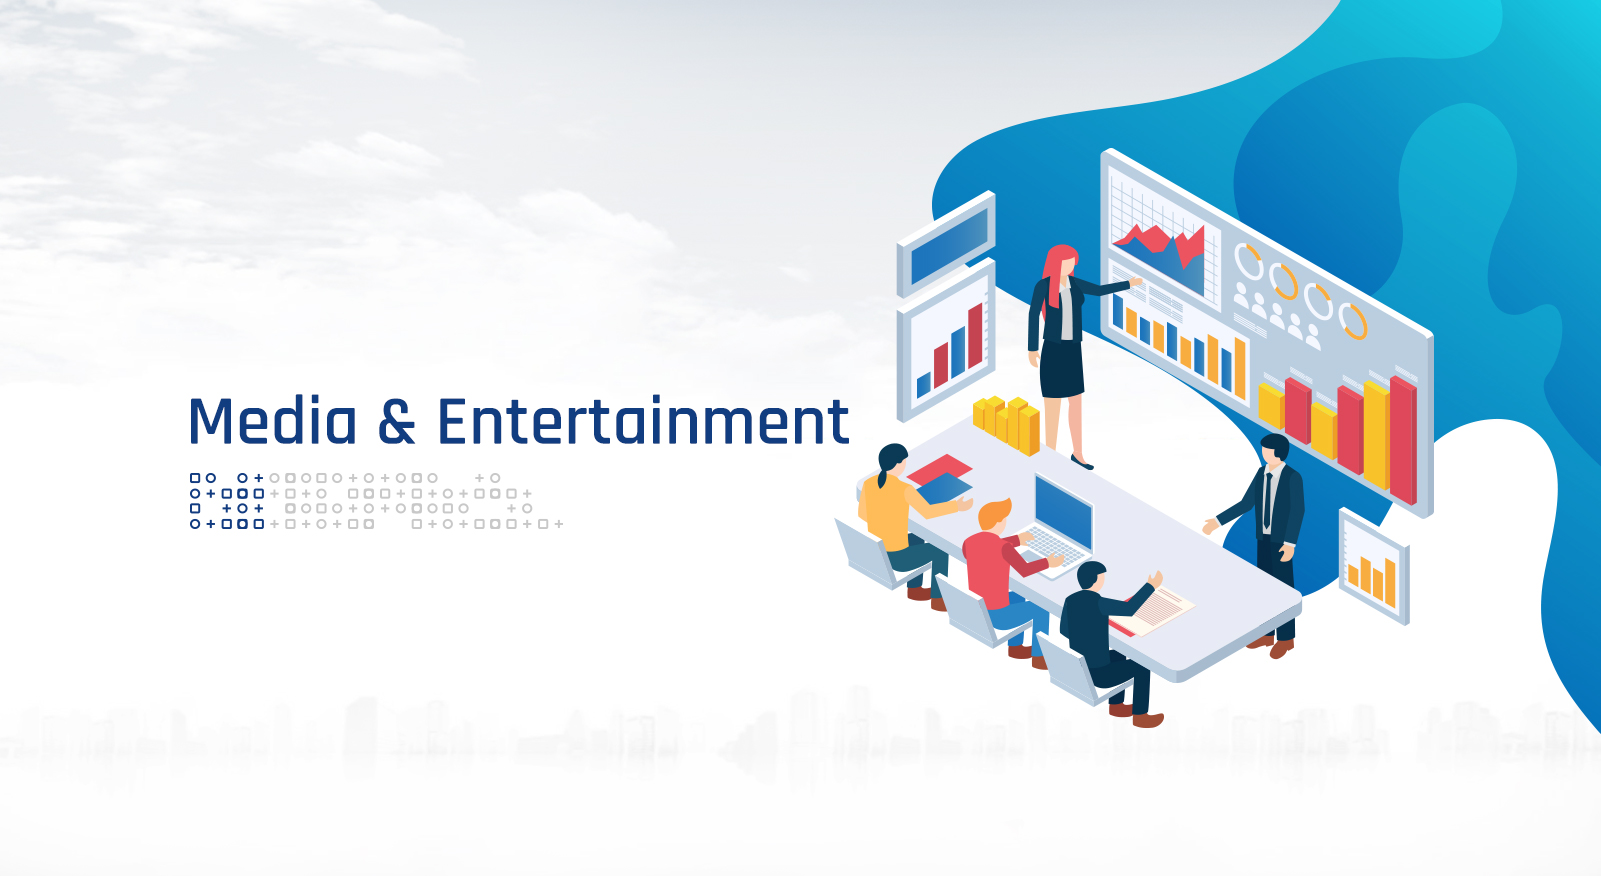
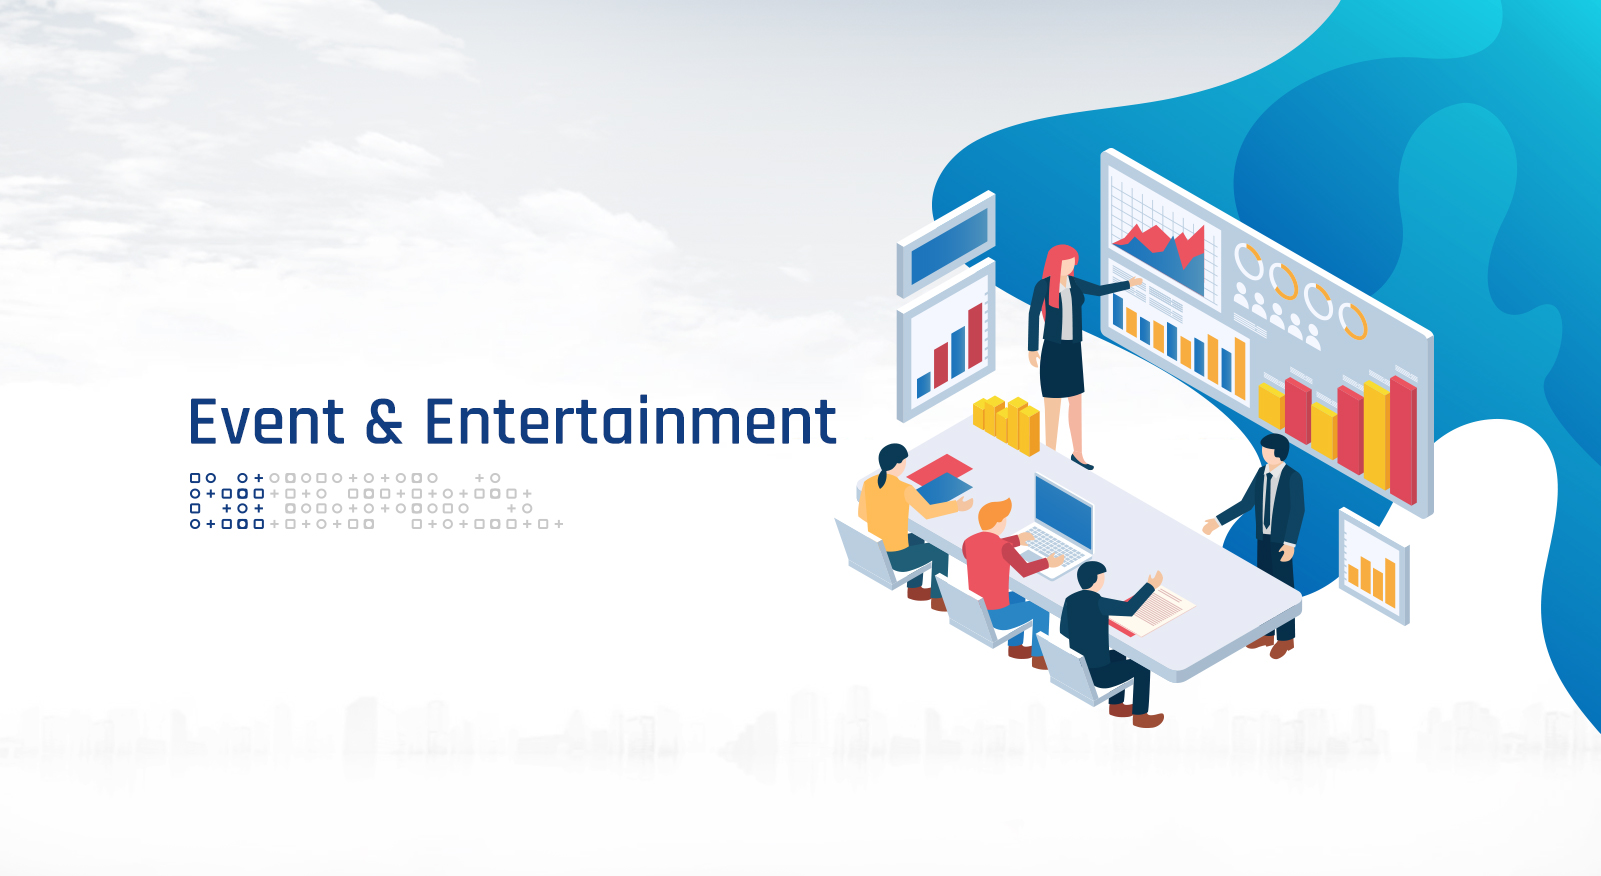
04feb

Changed region(s): [[0.1249, 0.4315, 0.5309, 0.524]]

diff --git a/src/pages/events-and-entertainment/index.jsx b/src/pages/events-and-entertainment/index.jsx
@@ -17,7 +17,7 @@ export default function Mediaent() {
         <div className={`  ${styles.btp} w-full overflow-hidden xl:w-4/5 `}>
         <Image
             src={require("@/assets/images/banner/media-and-entertainment.jpg")}
-            alt="Aladinn Tech Media & Entertainment"
+            alt="Aladinn Tech Event & Entertainment"
           />
         </div>
       </div>
@@ -31,7 +31,7 @@ export default function Mediaent() {
               <div className={` ${styles.titlesubcontainer} `}>
                 <p className={` ${styles.titlesub} `}> Our Solutions </p>
 
-                <h2 className={` ${styles.titlemain} `}> Media & Entertainment</h2>
+                <h2 className={` ${styles.titlemain} `}> Event & Entertainment</h2>
               </div>             
               <p className="text-gray-600 text-base">Developing interactive and end-to-end solutions for Media and Entertainment App business. </p>
             </div>
@@ -100,7 +100,7 @@ export default function Mediaent() {
             </div>
             <div className="w-full overflow-hidden text-center md:w-2/5">
                 <Image
-                  src={require("@/assets/images/about/our-solution.png")}
+                  src={require("@/assets/images/media/1.png")}
                   alt="Aladinn Tech"
                 />
             </div>
@@ -108,7 +108,7 @@ export default function Mediaent() {
           <div className={`flex flex-wrap items-center overflow-hidden py-4 md:py-10 ${styles.flexdirection}`}>
             <div className="w-full overflow-hidden text-center pb-6 md:pt-0 md:w-2/5">
                 <Image
-                  src={require("@/assets/images/about/our-solution.png")}
+                  src={require("@/assets/images/media/3.png")}
                   alt="Aladinn Tech"
                 />
             </div>           
@@ -248,7 +248,7 @@ export default function Mediaent() {
             </div>
             <div className="w-full overflow-hidden text-center md:w-2/5">
                 <Image
-                  src={require("@/assets/images/about/our-solution.png")}
+                  src={require("@/assets/images/media/7.png")}
                   alt="Aladinn Tech"
                 />
             </div>
@@ -256,7 +256,7 @@ export default function Mediaent() {
           <div className={`flex flex-wrap items-center overflow-hidden py-4 md:py-10 ${styles.flexdirection}`}>
             <div className="w-full overflow-hidden text-center pb-6 md:pt-0 md:w-2/5">
                 <Image
-                  src={require("@/assets/images/about/our-solution.png")}
+                  src={require("@/assets/images/media/4.png")}
                   alt="Aladinn Tech"
                 />
             </div>
@@ -396,7 +396,7 @@ export default function Mediaent() {
             </div>
             <div className="w-full overflow-hidden text-center pt-10 md:w-2/5">
                 <Image
-                  src={require("@/assets/images/about/our-solution.png")}
+                  src={require("@/assets/images/media/5.png")}
                   alt="Aladinn Tech"
                 />
             </div>
@@ -406,7 +406,7 @@ export default function Mediaent() {
           <div className={`flex flex-wrap items-center overflow-hidden py-4 md:py-10 ${styles.flexdirection}`}>
             <div className="w-full overflow-hidden text-center pb-6 md:pt-0 md:w-2/5">
                 <Image
-                  src={require("@/assets/images/about/our-solution.png")}
+                  src={require("@/assets/images/media/6.png")}
                   alt="Aladinn Tech"
                 />
             </div>
@@ -468,7 +468,7 @@ export default function Mediaent() {
               <div className={` ${styles.titlesubcontainer} `}>
                 <p className={` ${styles.titlesub} `}>  Challenges </p>
 
-                <h2 className={` ${styles.titlemain} `}>Media & Entertainment</h2>
+                <h2 className={` ${styles.titlemain} `}>Event & Entertainment</h2>
               </div>             
               <p className="text-gray-600 text-base">With the influx of technology, the expectations of the public from the media industry has greatly shifted. Video on demand and OTT Development solutions have provided access to live and on-demand coverage. Not just TV, audiences are now consuming media and information on all devices and diverse platforms. Thus, the major challenge for the media industry is to provide on-demand content quickly and effortlessly to enhance the viewership. </p>
             </div>
@@ -590,7 +590,7 @@ export default function Mediaent() {
               <div className={` ${styles.titlesubcontainer} `}>
                 <p className={` ${styles.titlesub} `}>  What Value We Deliver </p>
 
-                <h2 className={` ${styles.titlemain} `}>Media & Entertainment</h2>
+                <h2 className={` ${styles.titlemain} `}>Event & Entertainment</h2>
               </div> 
             </div>
           </div>  

diff --git a/src/pages/banking-and-finance/index.jsx b/src/pages/banking-and-finance/index.jsx
@@ -128,7 +128,7 @@ export default function Bankingfinance() {
             </div>
             <div className="w-full overflow-hidden text-center md:w-2/5">
                 <Image
-                  src={require("@/assets/images/about/our-solution.png")}
+                  src={require("@/assets/images/industries/1.png")}
                   alt="Aladinn Tech"
                 />
             </div>
@@ -136,7 +136,7 @@ export default function Bankingfinance() {
           <div className={`flex flex-wrap items-center overflow-hidden py-4 md:py-10 ${styles.flexdirection}`}>
             <div className="w-full overflow-hidden text-center pb-6 md:pt-0 md:w-2/5">
                 <Image
-                  src={require("@/assets/images/about/our-solution.png")}
+                  src={require("@/assets/images/industries/2.png")}
                   alt="Aladinn Tech"
                 />
             </div>           
@@ -260,7 +260,7 @@ export default function Bankingfinance() {
             </div>
             <div className="w-full overflow-hidden text-center md:w-2/5">
                 <Image
-                  src={require("@/assets/images/about/our-solution.png")}
+                  src={require("@/assets/images/industries/3.png")}
                   alt="Aladinn Tech"
                 />
             </div>
@@ -268,7 +268,7 @@ export default function Bankingfinance() {
           <div className={`flex flex-wrap items-center overflow-hidden py-4 md:py-10 ${styles.flexdirection}`}>
             <div className="w-full overflow-hidden text-center pb-6 md:pt-0 md:w-2/5">
                 <Image
-                  src={require("@/assets/images/about/our-solution.png")}
+                  src={require("@/assets/images/industries/4.png")}
                   alt="Aladinn Tech"
                 />
             </div>
@@ -390,7 +390,7 @@ export default function Bankingfinance() {
             </div>
             <div className="w-full overflow-hidden text-center pt-10 md:w-2/5">
                 <Image
-                  src={require("@/assets/images/about/our-solution.png")}
+                  src={require("@/assets/images/industries/5.png")}
                   alt="Aladinn Tech"
                 />
             </div>
@@ -400,7 +400,7 @@ export default function Bankingfinance() {
           <div className={`flex flex-wrap items-center overflow-hidden py-4 md:py-10 ${styles.flexdirection}`}>
             <div className="w-full overflow-hidden text-center pb-6 md:pt-0 md:w-2/5">
                 <Image
-                  src={require("@/assets/images/about/our-solution.png")}
+                  src={require("@/assets/images/industries/6.png")}
                   alt="Aladinn Tech"
                 />
             </div>

diff --git a/src/pages/education-sector/index.jsx b/src/pages/education-sector/index.jsx
@@ -109,7 +109,7 @@ export default function Eductionsector() {
             </div>
             <div className="w-full overflow-hidden text-center md:w-2/5">
                 <Image
-                  src={require("@/assets/images/about/our-solution.png")}
+                  src={require("@/assets/images/education/1.png")}
                   alt="Aladinn Tech"
                 />
             </div>
@@ -117,7 +117,7 @@ export default function Eductionsector() {
           <div className={`flex flex-wrap items-center overflow-hidden py-4 md:py-10 ${styles.flexdirection}`}>
             <div className="w-full overflow-hidden text-center pb-6 md:pt-0 md:w-2/5">
                <Image
-                  src={require("@/assets/images/about/our-solution.png")}
+                  src={require("@/assets/images/education/2.png")}
                   alt="Aladinn Tech"
                 />
             </div>           
@@ -248,7 +248,7 @@ export default function Eductionsector() {
             </div>
             <div className="w-full overflow-hidden text-center md:w-2/5">
                 <Image
-                  src={require("@/assets/images/about/our-solution.png")}
+                  src={require("@/assets/images/education/3.png")}
                   alt="Aladinn Tech"
                 />
             </div>
@@ -258,7 +258,7 @@ export default function Eductionsector() {
           <div className={`flex flex-wrap items-center overflow-hidden py-4 md:py-10 ${styles.flexdirection}`}>
             <div className="w-full overflow-hidden text-center pb-6 md:pt-0 md:w-2/5">
                 <Image
-                  src={require("@/assets/images/about/our-solution.png")}
+                  src={require("@/assets/images/education/4.png")}
                   alt="Aladinn Tech"
                 />
             </div>
@@ -380,7 +380,7 @@ export default function Eductionsector() {
             </div>
             <div className="w-full overflow-hidden text-center pt-10 md:w-2/5">
                 <Image
-                  src={require("@/assets/images/about/our-solution.png")}
+                  src={require("@/assets/images/education/5.png")}
                   alt="Aladinn Tech"
                 />
             </div>
@@ -390,7 +390,7 @@ export default function Eductionsector() {
           <div className={`flex flex-wrap items-center overflow-hidden py-4 md:py-10 ${styles.flexdirection}`}>
             <div className="w-full overflow-hidden text-center pb-6 md:pt-0 md:w-2/5">
                 <Image
-                  src={require("@/assets/images/about/our-solution.png")}
+                  src={require("@/assets/images/education/6.png")}
                   alt="Aladinn Tech"
                 />
             </div>

diff --git a/src/pages/real-estate-and-housing/index.jsx b/src/pages/real-estate-and-housing/index.jsx
@@ -109,7 +109,7 @@ export default function Realestate() {
             </div>
             <div className="w-full overflow-hidden text-center md:w-2/5">
                 <Image
-                  src={require("@/assets/images/about/our-solution.png")}
+                  src={require("@/assets/images/industries/7.png")}
                   alt="Aladinn Tech"
                 />
             </div>
@@ -117,7 +117,7 @@ export default function Realestate() {
           <div className={`flex flex-wrap items-center overflow-hidden py-4 md:py-10 ${styles.flexdirection}`}>
             <div className="w-full overflow-hidden text-center pb-6 md:pt-0 md:w-2/5">
                 <Image
-                  src={require("@/assets/images/about/our-solution.png")}
+                  src={require("@/assets/images/industries/8.png")}
                   alt="Aladinn Tech"
                 />
             </div>           
@@ -248,7 +248,7 @@ export default function Realestate() {
             </div>
             <div className="w-full overflow-hidden text-center md:w-2/5">
                 <Image
-                  src={require("@/assets/images/about/our-solution.png")}
+                  src={require("@/assets/images/industries/9.png")}
                   alt="Aladinn Tech"
                 />
             </div>
@@ -256,7 +256,7 @@ export default function Realestate() {
           <div className={`flex flex-wrap items-center overflow-hidden py-4 md:py-10 ${styles.flexdirection}`}>
             <div className="w-full overflow-hidden text-center pb-6 md:pt-0 md:w-2/5">
                 <Image
-                  src={require("@/assets/images/about/our-solution.png")}
+                  src={require("@/assets/images/industries/10.png")}
                   alt="Aladinn Tech"
                 />
             </div>
@@ -369,7 +369,7 @@ export default function Realestate() {
             </div>
             <div className="w-full overflow-hidden text-center pt-10 md:w-2/5">
                 <Image
-                  src={require("@/assets/images/about/our-solution.png")}
+                  src={require("@/assets/images/industries/11.png")}
                   alt="Aladinn Tech"
                 />
             </div>
@@ -379,7 +379,7 @@ export default function Realestate() {
           <div className={`flex flex-wrap items-center overflow-hidden py-4 md:py-10 ${styles.flexdirection}`}>
             <div className="w-full overflow-hidden text-center pb-6 md:pt-0 md:w-2/5">
                 <Image
-                  src={require("@/assets/images/about/our-solution.png")}
+                  src={require("@/assets/images/industries/12.png")}
                   alt="Aladinn Tech"
                 />
             </div>

diff --git a/src/pages/hospitality-and-tourism/index.jsx b/src/pages/hospitality-and-tourism/index.jsx
@@ -91,7 +91,7 @@ export default function Realestate() {
             </div>
             <div className="w-full overflow-hidden text-center md:w-2/5">
                 <Image
-                  src={require("@/assets/images/about/our-solution.png")}
+                  src={require("@/assets/images/hospital/2.png")}
                   alt="Aladinn Tech"
                 />
             </div>
@@ -99,7 +99,7 @@ export default function Realestate() {
           <div className={`flex flex-wrap items-center overflow-hidden py-4 md:py-10 ${styles.flexdirection}`}>
             <div className="w-full overflow-hidden text-center pb-6 md:pt-0 md:w-2/5">
                 <Image
-                  src={require("@/assets/images/about/our-solution.png")}
+                  src={require("@/assets/images/hospital/1.png")}
                   alt="Aladinn Tech"
                 />
             </div>           
@@ -203,7 +203,7 @@ export default function Realestate() {
             </div>
             <div className="w-full overflow-hidden text-center md:w-2/5">
                 <Image
-                  src={require("@/assets/images/about/our-solution.png")}
+                  src={require("@/assets/images/hospital/3.png")}
                   alt="Aladinn Tech"
                 />
             </div>
@@ -211,7 +211,7 @@ export default function Realestate() {
           <div className={`flex flex-wrap items-center overflow-hidden py-4 md:py-10 ${styles.flexdirection}`}>
             <div className="w-full overflow-hidden text-center pb-6 md:pt-0 md:w-2/5">
                 <Image
-                  src={require("@/assets/images/about/our-solution.png")}
+                  src={require("@/assets/images/hospital/4.png")}
                   alt="Aladinn Tech"
                 />
             </div>
@@ -333,7 +333,7 @@ export default function Realestate() {
             </div>
             <div className="w-full overflow-hidden text-center pt-10 md:w-2/5">
                 <Image
-                  src={require("@/assets/images/about/our-solution.png")}
+                  src={require("@/assets/images/hospital/5.png")}
                   alt="Aladinn Tech"
                 />
             </div>
@@ -343,7 +343,7 @@ export default function Realestate() {
           <div className={`flex flex-wrap items-center overflow-hidden py-4 md:py-10 ${styles.flexdirection}`}>
             <div className="w-full overflow-hidden text-center pb-6 md:pt-0 md:w-2/5">
                 <Image
-                  src={require("@/assets/images/about/our-solution.png")}
+                  src={require("@/assets/images/hospital/6.png")}
                   alt="Aladinn Tech"
                 />
             </div>

diff --git a/src/pages/_document.js b/src/pages/_document.js
@@ -9,9 +9,8 @@ export default class MyDocument extends Document {
     return (
       <Html lang="en">
         <Head>
-        <meta name="description" content="ALDS empowers businesses with technology that assists companies to achieve their goals. We are a New Age Developers and focused on growth and success. Our experienced Full stack developers are handy with JavaScript frameworks like Angular, React JS, NextJS, Gatsby JS for web designing & development & for Mobile Application React Native, Flutter & Ionic. The PHP framework like Yii, Laravel & CodeIgniter are used for Web Development."></meta>
-        
-        <meta name="title" content="ALDS are a business-oriented Website and App Development Company"></meta>
+        <title> Web Development and App Development Company In Jaipur, Rajasthan | Aladinn Tech </title>
+        <meta name="description" content="Aladinn Tech is a leading  Web Development and App Development Company In Jaipur, Rajasthan having the most qualified and experienced development specialists."  />
           <link
             href="https://fonts.googleapis.com/css2?family=Rajdhani&display=swap"
             rel="stylesheet"
